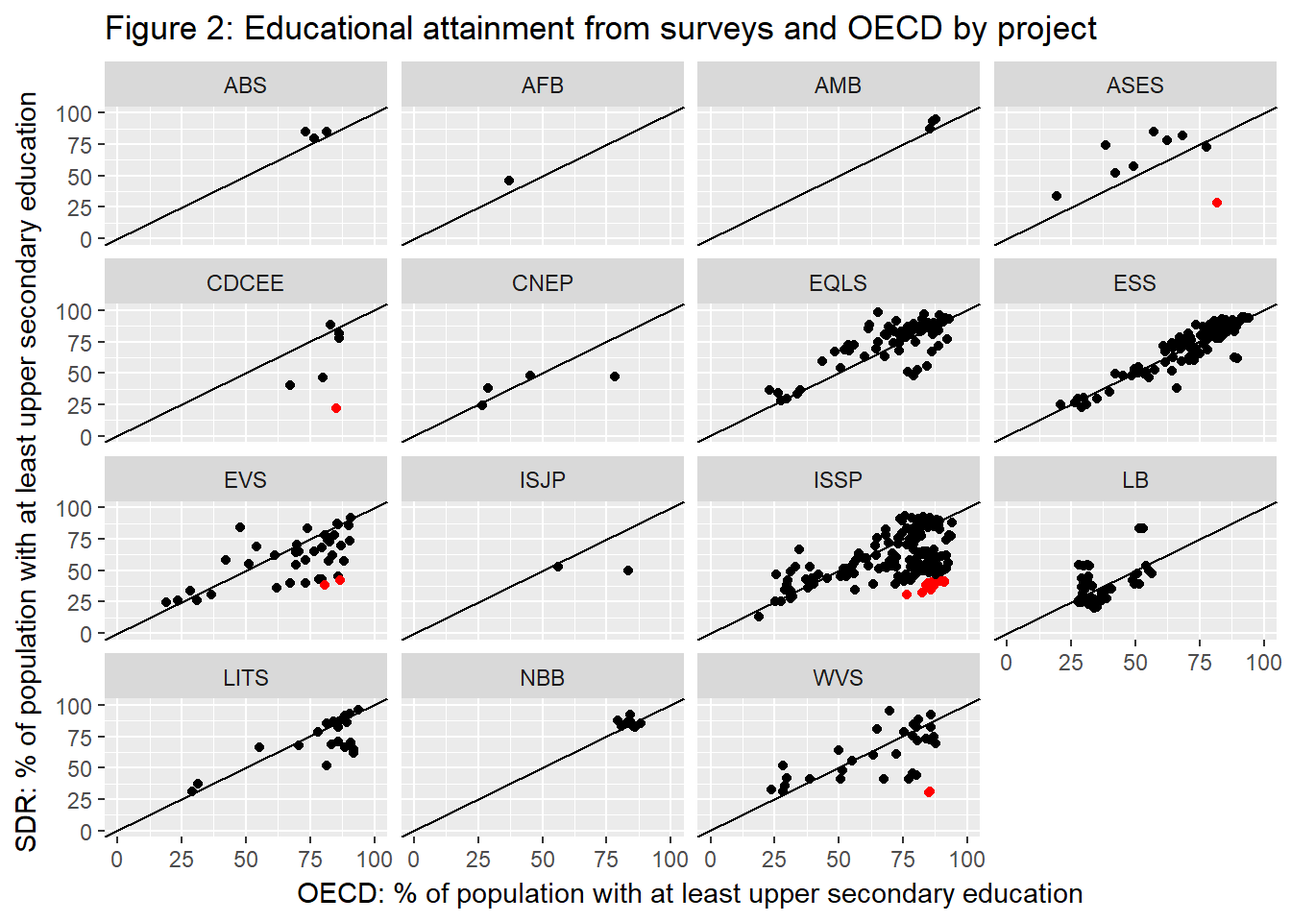
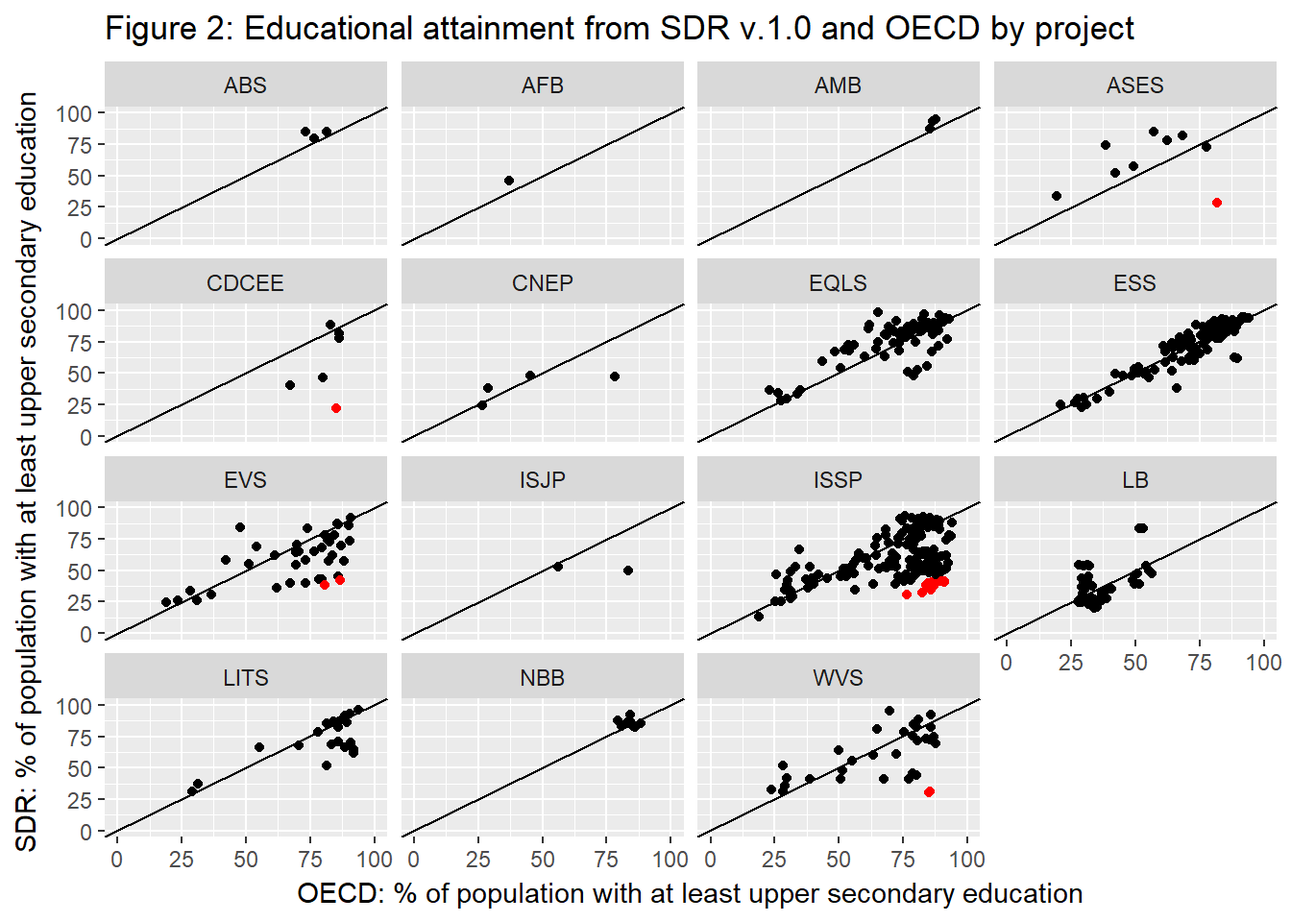
educ sdr oecd 2

Changed region(s): [[0.5, 0.0, 0.875, 0.0625]]

diff --git a/content/post/education-sdr-oecd.html b/content/post/education-sdr-oecd.html
@@ -43,13 +43,13 @@ output:
 <code>60 = bachelor’s or equivalent level</code><br />
 <code>70 = master’s or equivalent level</code><br />
 <code>80 = doctoral or equivalent level</code><br />
-<code>90 = not elsewhere classified</code><br />
-and <code>c_edu_incomplete</code> is a flag indicating whether the given level of education has been completed (<code>c_edu_incomplete == 0</code>) or not (<code>c_edu_incomplete == 1</code>).<br />
-After matching the SDR v.1.0 and OECD datasets (and losing some cases on both sides) I ended up with 542 cases (national samples) from 15 projects: Asian Barometer (ABS), Afrobarometer (AFB), Americas Barometer (AMB), Asia-Europe Survey (ASES), Consolidation and Democracy in Central Eastern Europe (CDCEE), Comparative National Elections Project (CNEP), European Quality of Life Survey (EQLS), European Social Survey (ESS,) European Values Study (EVS), International Social Justice Project (ISJP), International Social Survey Programme (ISSP), Latinobarometro (LB), Life in Transition Survey (LITS), New Baltic Barometer (NBB), and the World Values Survey (WVS), and for 38 countries (that the OECD dataset only has information for a limited number of countries).</p>
+<code>90 = not elsewhere classified</code></p>
+<p>and <code>c_edu_incomplete</code> is a flag indicating whether the given level of education has been completed (<code>c_edu_incomplete == 0</code>) or not (<code>c_edu_incomplete == 1</code>).</p>
+<p>After matching the SDR v.1.0 and OECD datasets (and losing some cases on both sides) I ended up with 542 cases (national samples) from 15 projects: Asian Barometer (ABS), Afrobarometer (AFB), Americas Barometer (AMB), Asia-Europe Survey (ASES), Consolidation and Democracy in Central Eastern Europe (CDCEE), Comparative National Elections Project (CNEP), European Quality of Life Survey (EQLS), European Social Survey (ESS,) European Values Study (EVS), International Social Justice Project (ISJP), International Social Survey Programme (ISSP), Latinobarometro (LB), Life in Transition Survey (LITS), New Baltic Barometer (NBB), and the World Values Survey (WVS), and for 38 countries (that the OECD dataset only has information for a limited number of countries).</p>
 <div id="oecd-data" class="section level4">
 <h4>OECD data</h4>
 <p>Let’s start with the OECD data. The function <code>get_datasets</code> from the <a href="https://github.com/expersso/OECD"><code>oecd</code> package</a> gets the list of available datasets. <code>search_dataset</code> searches for keywords among the available datasets. The Educational attainment and labour-force status database has the code <code>NEAC_SHARE_EA</code>. With this code, the database can be downloaded with the <code>get_dataset</code> function.</p>
-<p><em>Note: The entire database is huge and takes several minutes to download. According to the <code>oecd</code> package <a href="https://github.com/expersso/OECD">instructions</a>, it is possible to specify a filter in <code>get_dataset</code>. This would be great, since I only need a small subset of the data, but unfortunately I haven’t been able to get the filetr to work.</em></p>
+<p><em>Note: The entire database is huge and takes several minutes to download. According to the <code>oecd</code> package <a href="https://github.com/expersso/OECD">instructions</a>, it is possible to specify a filter in <code>get_dataset</code>. This would be great, since I only need a small subset of the data, but unfortunately I haven’t been able to get the filter to work.</em></p>
 <p>After downloading the database I select the subset I’m interested in:<br />
 1. the indicator “Share of population by educational attainment” (<code>NEAC_SHARE_EA</code>),<br />
 2. the education level measured “At least upper secondary education” (<code>L3T8</code>),<br />
@@ -96,8 +96,8 @@ master &lt;- haven::read_dta(tmp)</code></pre>
 <li>calculate weighted proportions of the <code>hs</code> variable by national sample - <code>mean_hs</code>,</li>
 <li>calculate the proportion of missing values in the <code>t_edu</code> variable,</li>
 <li>filter surveys for which <code>mean_hs</code> is available and which cover whole country samples (as opposed to split-country samples, such as West and East Germany or Wallonia and Flanders),</li>
-<li>covert SDR country codes from ISO2 to ISO3,</li>
-<li>merge the SDR data with the OCD data on the country code and year,</li>
+<li>covert SDR country codes from ISO2 to ISO3 (to match with OECD data),</li>
+<li>merge the SDR data with the OECD data on the country code and year,</li>
 <li>Construct a flag for survey proportion less than half of the OECD proportion,</li>
 <li>filter out cases with missing values.</li>
 </ol>
@@ -122,16 +122,16 @@ master &lt;- haven::read_dta(tmp)</code></pre>
 <p>The correlation (Pearson’s <em>r</em>) between the SDR percentage of respondents with at least upper secondary education and the corresponding OECD share is 0.67. The scatter plot in Figure 1 visualizes this association. While most of the samples are relatively close to the 45-degree line (as expected), there is a worrying group of observations with survey proportions substantially lower than the proportions from OECD data. Red points indicate that the survey proportion is less than half of the OECD proportion (the 50 percent threshold is of course arbitrary).</p>
 <pre class="r"><code>ggplot(merge, aes(x=obsValue, y=mean_hs, col = off)) + geom_point(show.legend=F) + 
   scale_color_manual(values=c(&quot;black&quot;, &quot;red&quot;)) +
-  ggtitle(&quot;Figure 1: Educational attainment from SDR and OECD&quot;) + 
+  ggtitle(&quot;Figure 1: Educational attainment from SDR v.1.0 and OECD&quot;) + 
   xlab(&quot;OECD: % of population with at least upper secondary education&quot;) +
   ylab(&quot;SDR: % of population with at least upper secondary education&quot;) +
   xlim(0,100) + ylim(0,100) +
   geom_abline(intercept = 0, slope = 1)</code></pre>
 <p><img src="/post/education-sdr-oecd_files/figure-html/scatter1-1.png" width="672" /></p>
-<p>Figure 2 presents separate plots for each survey project, showing that most of the problematic surveys are in the <a href="http://issp.org">International Social Survey Programme (ISSP)</a>, but also in ASES, CDCEE, EVS, and WVS. The data used in the above graphs can be accessed here: <a href="https://mkolczynska.shinyapps.io/sdr_oecd_education/" class="uri">https://mkolczynska.shinyapps.io/sdr_oecd_education/</a>.</p>
+<p>Figure 2 presents separate plots for each survey project, showing that most of the problematic surveys are in the International Social Survey Programme (ISSP), but also in ASES, CDCEE, EVS, and WVS. This Shiny app enables filtering of the data to be plotted and provides the data: <a href="https://mkolczynska.shinyapps.io/sdr_oecd_education/" class="uri">https://mkolczynska.shinyapps.io/sdr_oecd_education/</a>.</p>
 <pre class="r"><code>ggplot(merge, aes(x=obsValue, y=mean_hs, col = off)) + geom_point(show.legend=F) + 
   scale_color_manual(values=c(&quot;black&quot;, &quot;red&quot;)) +
-  ggtitle(&quot;Figure 2: Educational attainment from surveys and OECD by project&quot;) + 
+  ggtitle(&quot;Figure 2: Educational attainment from SDR v.1.0 and OECD by project&quot;) + 
   xlab(&quot;OECD: % of population with at least upper secondary education&quot;) +
   ylab(&quot;SDR: % of population with at least upper secondary education&quot;) +
   xlim(0,100) + ylim(0,100) +
@@ -141,11 +141,12 @@ master &lt;- haven::read_dta(tmp)</code></pre>
 </div>
 <div id="the-curious-case-of-issp-switzerland" class="section level3">
 <h3>The curious case of ISSP Switzerland</h3>
-<p>ISSP surveys in Switzerland are a particularly interesting case. As shown in the table below, the time series starts with survey proportions of respondents with at least upper secondary education (column “SDR v.1.0 % HS+”) of around 90% in 1996, drops to around 40% in 1998, stays low until 2010, and then increases back to 85% in 2011. Note that only selected waves of ISSP are included in SDR v.1.0. Also note that survey proportions from 2006 and 2007, and from 2008 and 2009 are identical; this is because these two waves were carried out together onn the same sample.</p>
+<p>ISSP surveys in Switzerland are a particularly interesting case. As shown in Table 1 below, the time series starts with survey proportions of respondents with at least upper secondary education (column “SDR % HS+”) of around 90% in 1996, drops to around 40% in 1998, stays low until 2010, and then increases back to 85% in 2011. Note that only selected waves of ISSP are included in SDR v.1.0. Also note that survey proportions from 2006 and 2007, and from 2008 and 2009 are identical; this is because these two waves were carried out together on the same sample.</p>
 <pre class="r"><code>merge %&gt;% filter(t_survey_name == &quot;ISSP&quot; &amp; t_country_l1u == &quot;CH&quot;) %&gt;%
   arrange(t_survey_edition) %&gt;% select(1,2,3,5,10) %&gt;%
   kable(digits = 3, align=c(&quot;c&quot;, &quot;c&quot;, &quot;c&quot;, &quot;c&quot;), 
-        caption = &quot;Educational attainment data from ISSP Switzerland and the OECD&quot;) %&gt;%
+        caption = &quot;Educational attainment data from ISSP Switzerland and the OECD&quot;,
+        col.names = c(&quot;Project&quot;, &quot;Wave&quot;, &quot;Country&quot;, &quot;SDR % HS+&quot;, &quot;OECD % HS+&quot;)) %&gt;%
   kable_styling(full_width = F, position = &quot;left&quot;) %&gt;%
   column_spec(1:5, width = &quot;10em&quot;)</code></pre>
 <table class="table" style="width: auto !important; ">
@@ -155,19 +156,19 @@ master &lt;- haven::read_dta(tmp)</code></pre>
 <thead>
 <tr>
 <th style="text-align:center;">
-t_survey_name
+Project
 </th>
 <th style="text-align:center;">
-t_survey_edition
+Wave
 </th>
 <th style="text-align:center;">
-t_country_l1u
+Country
 </th>
 <th style="text-align:center;">
-mean_hs
+SDR % HS+
 </th>
 <th style="text-align:center;">
-obsValue
+OECD % HS+
 </th>
 </tr>
 </thead>
@@ -327,14 +328,14 @@ CH
 </tr>
 </tbody>
 </table>
-<p>Further investigation required digging into the original data and documentation, which benefitted from the help of Przemek. It turns out that some ISSP waves have two variables capturing respondent’s education level: one is country-specific and the other is recoded to a common scheme across countries by ISSP. For example, in ISSP/2007, the country-specific variable for Switzerland (<code>ch_degr</code>) has 14 categories (including one for missing values). The <code>degree</code> variable is the recoded one and has 7 categories (also including one for missing values). The frequencies in both variables are nice enough to make a relatively safe bet as to how <code>ch_degr</code> was mapped onto <code>degree</code> by the ISSP team. Przemek and I checked the SDR v.1.0 documentation and the code used to harmonize education variables from ISSP. It turns out that the source variable used for harmonization if ISSP/2007/CH was the recoded degree variable. The scheme below shows how the three variables are related.</p>
-<div style="white-space: pre-line;">Figure 3: Mapping scheme of ISSP/2007/Switzerland: <code>degree</code>, <code>ch_degr</code>, <code>t_edu</code>
-<img src="issp-2007-ch-sdr.png" width="700" /></div>
+<p>Further investigation required digging into the original data and documentation, which benefitted from the help of Przemek. It turns out that some ISSP waves have two variables capturing respondent’s education level: one is country-specific and the other is recoded to a common scheme across countries by ISSP. For example, in ISSP/2007, the country-specific variable for Switzerland (<code>ch_degr</code>) has 14 categories (including one for missing values). The <code>degree</code> variable is the recoded one and has 7 categories (also including one for missing values). The frequencies in both variables are nice enough to make a relatively safe bet as to how <code>ch_degr</code> was mapped onto <code>degree</code> by the ISSP team. Przemek and I checked the SDR v.1.0 documentation and the code used to harmonize education variables from ISSP. It turns out that the source variable used for harmonization if ISSP/2007/Switzerland was the recoded <code>degree</code> variable. The scheme in Table 2 shows how the three variables are related.</p>
+<div style="white-space: pre-line;">Table 2: Mapping scheme of ISSP/2007/Switzerland: <code>degree</code>, <code>ch_degr</code>, <code>t_edu</code>
+<img src="issp-2007-ch-sdr.png" width="600" /></div>
 <p>It seems that the problem lies in the recoding from <code>ch_degr</code> to <code>degree</code>, especially in the value labels “Lowest formal qualification”, which suggests primary school completion, as it was coded in SDR. Meanwhile the category “Lowest formal qualification” in <code>degree</code> includes both “Primary school” and “Secondary school” from <code>ch_degr</code>, which would be assigned different ISCED codes. As a consequence of the misclassification of “Lowest formal qualification”, “Above lowest qualification” was understood as levels above primary, i.e., lower secondary, but not necessarily completed upper secondary.<br />
-An alternative (hypothetical) mapping presented below uses the country-specific <code>ch_degr</code> variable as the source and maps it to categories of SDR’s <code>t_edu</code>. In this scenario all the categories highlighted in blue would be assigned target codes corresponding to upper secondary education or more, resulting in the share of respondents with at least upper secondary education of 86%, i.e., matching the OECD value.</p>
-<div style="white-space: pre-line;">Figure 4: Hypothetical mapping scheme of ISSP/2007/Switzerland
-<img src="issp-2007-ch-sdr-hypo.png" width="700" /></div>
-<p>Data dictionaries of the source variables for <code>t_edu</code> (i.e., the non-country-specific education variables) from other ISSP waves (see <a href="#appendix">Appendix</a> show that the “Lowest formal qualification” category is present in all those ISSP waves (2004, 2006, 2007, 2008, 2009, 2010), where ca. 40% of the Swiss sample in SDR has at least upper secondary education. The earliest and latest wave of ISSP (1996, 2011) have different sets of response categories in the recoded education variable, which did not result in such errors when harmonizing them in SDR. The relevant variable in ISSP/1998 does not have the “Lowest formal qualification” or “Above lowest qualification” categories, and yet the share of respondents with at least upper secondary education based on the harmonized <code>t_edu</code> variable in SDR is less than 40. This requires further investigation.</p>
+An alternative (hypothetical) mapping presented In Table 3 uses the country-specific <code>ch_degr</code> variable as the source and maps it to categories of SDR’s <code>t_edu</code>. In this scenario all the categories highlighted in blue would be assigned target codes corresponding to upper secondary education or more, resulting in the share of respondents with at least upper secondary education of 86%, i.e., matching the OECD value.</p>
+<div style="white-space: pre-line;">Table 3: Hypothetical mapping scheme of ISSP/2007/Switzerland
+<img src="issp-2007-ch-sdr-hypo.png" width="600" /></div>
+<p>Data dictionaries of the source variables for <code>t_edu</code> (i.e., the non-country-specific education variables) from other ISSP waves (see <a href="#appendix">Appendix</a>) show that the “Lowest formal qualification” category is present in all those ISSP waves (2004, 2006, 2007, 2008, 2009, 2010), where ca. 40% of the Swiss sample in SDR has at least upper secondary education. The earliest and latest wave of ISSP (1996, 2011) have different sets of response categories in the recoded education variable, which did not result in such errors when harmonizing them in SDR. The relevant variable in ISSP/1998 does not have the “Lowest formal qualification” or “Above lowest qualification” categories, and yet the share of respondents with at least upper secondary education based on the harmonized <code>t_edu</code> variable in SDR is less than 40. This requires further investigation.</p>
 </div>
 <div id="conclusion" class="section level3">
 <h3>Conclusion</h3>

diff --git a/public/post/education-sdr-oecd/index.html b/public/post/education-sdr-oecd/index.html
@@ -292,13 +292,13 @@
 <code>60 = bachelor’s or equivalent level</code><br />
 <code>70 = master’s or equivalent level</code><br />
 <code>80 = doctoral or equivalent level</code><br />
-<code>90 = not elsewhere classified</code><br />
-and <code>c_edu_incomplete</code> is a flag indicating whether the given level of education has been completed (<code>c_edu_incomplete == 0</code>) or not (<code>c_edu_incomplete == 1</code>).<br />
-After matching the SDR v.1.0 and OECD datasets (and losing some cases on both sides) I ended up with 542 cases (national samples) from 15 projects: Asian Barometer (ABS), Afrobarometer (AFB), Americas Barometer (AMB), Asia-Europe Survey (ASES), Consolidation and Democracy in Central Eastern Europe (CDCEE), Comparative National Elections Project (CNEP), European Quality of Life Survey (EQLS), European Social Survey (ESS,) European Values Study (EVS), International Social Justice Project (ISJP), International Social Survey Programme (ISSP), Latinobarometro (LB), Life in Transition Survey (LITS), New Baltic Barometer (NBB), and the World Values Survey (WVS), and for 38 countries (that the OECD dataset only has information for a limited number of countries).</p>
+<code>90 = not elsewhere classified</code></p>
+<p>and <code>c_edu_incomplete</code> is a flag indicating whether the given level of education has been completed (<code>c_edu_incomplete == 0</code>) or not (<code>c_edu_incomplete == 1</code>).</p>
+<p>After matching the SDR v.1.0 and OECD datasets (and losing some cases on both sides) I ended up with 542 cases (national samples) from 15 projects: Asian Barometer (ABS), Afrobarometer (AFB), Americas Barometer (AMB), Asia-Europe Survey (ASES), Consolidation and Democracy in Central Eastern Europe (CDCEE), Comparative National Elections Project (CNEP), European Quality of Life Survey (EQLS), European Social Survey (ESS,) European Values Study (EVS), International Social Justice Project (ISJP), International Social Survey Programme (ISSP), Latinobarometro (LB), Life in Transition Survey (LITS), New Baltic Barometer (NBB), and the World Values Survey (WVS), and for 38 countries (that the OECD dataset only has information for a limited number of countries).</p>
 <div id="oecd-data" class="section level4">
 <h4>OECD data</h4>
 <p>Let’s start with the OECD data. The function <code>get_datasets</code> from the <a href="https://github.com/expersso/OECD"><code>oecd</code> package</a> gets the list of available datasets. <code>search_dataset</code> searches for keywords among the available datasets. The Educational attainment and labour-force status database has the code <code>NEAC_SHARE_EA</code>. With this code, the database can be downloaded with the <code>get_dataset</code> function.</p>
-<p><em>Note: The entire database is huge and takes several minutes to download. According to the <code>oecd</code> package <a href="https://github.com/expersso/OECD">instructions</a>, it is possible to specify a filter in <code>get_dataset</code>. This would be great, since I only need a small subset of the data, but unfortunately I haven’t been able to get the filetr to work.</em></p>
+<p><em>Note: The entire database is huge and takes several minutes to download. According to the <code>oecd</code> package <a href="https://github.com/expersso/OECD">instructions</a>, it is possible to specify a filter in <code>get_dataset</code>. This would be great, since I only need a small subset of the data, but unfortunately I haven’t been able to get the filter to work.</em></p>
 <p>After downloading the database I select the subset I’m interested in:<br />
 1. the indicator “Share of population by educational attainment” (<code>NEAC_SHARE_EA</code>),<br />
 2. the education level measured “At least upper secondary education” (<code>L3T8</code>),<br />
@@ -345,8 +345,8 @@ master &lt;- haven::read_dta(tmp)</code></pre>
 <li>calculate weighted proportions of the <code>hs</code> variable by national sample - <code>mean_hs</code>,</li>
 <li>calculate the proportion of missing values in the <code>t_edu</code> variable,</li>
 <li>filter surveys for which <code>mean_hs</code> is available and which cover whole country samples (as opposed to split-country samples, such as West and East Germany or Wallonia and Flanders),</li>
-<li>covert SDR country codes from ISO2 to ISO3,</li>
-<li>merge the SDR data with the OCD data on the country code and year,</li>
+<li>covert SDR country codes from ISO2 to ISO3 (to match with OECD data),</li>
+<li>merge the SDR data with the OECD data on the country code and year,</li>
 <li>Construct a flag for survey proportion less than half of the OECD proportion,</li>
 <li>filter out cases with missing values.</li>
 </ol>
@@ -371,16 +371,16 @@ master &lt;- haven::read_dta(tmp)</code></pre>
 <p>The correlation (Pearson’s <em>r</em>) between the SDR percentage of respondents with at least upper secondary education and the corresponding OECD share is 0.67. The scatter plot in Figure 1 visualizes this association. While most of the samples are relatively close to the 45-degree line (as expected), there is a worrying group of observations with survey proportions substantially lower than the proportions from OECD data. Red points indicate that the survey proportion is less than half of the OECD proportion (the 50 percent threshold is of course arbitrary).</p>
 <pre class="r"><code>ggplot(merge, aes(x=obsValue, y=mean_hs, col = off)) + geom_point(show.legend=F) + 
   scale_color_manual(values=c(&quot;black&quot;, &quot;red&quot;)) +
-  ggtitle(&quot;Figure 1: Educational attainment from SDR and OECD&quot;) + 
+  ggtitle(&quot;Figure 1: Educational attainment from SDR v.1.0 and OECD&quot;) + 
   xlab(&quot;OECD: % of population with at least upper secondary education&quot;) +
   ylab(&quot;SDR: % of population with at least upper secondary education&quot;) +
   xlim(0,100) + ylim(0,100) +
   geom_abline(intercept = 0, slope = 1)</code></pre>
 <p><img src="/post/education-sdr-oecd_files/figure-html/scatter1-1.png" width="672" /></p>
-<p>Figure 2 presents separate plots for each survey project, showing that most of the problematic surveys are in the <a href="http://issp.org">International Social Survey Programme (ISSP)</a>, but also in ASES, CDCEE, EVS, and WVS. The data used in the above graphs can be accessed here: <a href="https://mkolczynska.shinyapps.io/sdr_oecd_education/" class="uri">https://mkolczynska.shinyapps.io/sdr_oecd_education/</a>.</p>
+<p>Figure 2 presents separate plots for each survey project, showing that most of the problematic surveys are in the International Social Survey Programme (ISSP), but also in ASES, CDCEE, EVS, and WVS. This Shiny app enables filtering of the data to be plotted and provides the data: <a href="https://mkolczynska.shinyapps.io/sdr_oecd_education/" class="uri">https://mkolczynska.shinyapps.io/sdr_oecd_education/</a>.</p>
 <pre class="r"><code>ggplot(merge, aes(x=obsValue, y=mean_hs, col = off)) + geom_point(show.legend=F) + 
   scale_color_manual(values=c(&quot;black&quot;, &quot;red&quot;)) +
-  ggtitle(&quot;Figure 2: Educational attainment from surveys and OECD by project&quot;) + 
+  ggtitle(&quot;Figure 2: Educational attainment from SDR v.1.0 and OECD by project&quot;) + 
   xlab(&quot;OECD: % of population with at least upper secondary education&quot;) +
   ylab(&quot;SDR: % of population with at least upper secondary education&quot;) +
   xlim(0,100) + ylim(0,100) +
@@ -390,11 +390,12 @@ master &lt;- haven::read_dta(tmp)</code></pre>
 </div>
 <div id="the-curious-case-of-issp-switzerland" class="section level3">
 <h3>The curious case of ISSP Switzerland</h3>
-<p>ISSP surveys in Switzerland are a particularly interesting case. As shown in the table below, the time series starts with survey proportions of respondents with at least upper secondary education (column “SDR v.1.0 % HS+”) of around 90% in 1996, drops to around 40% in 1998, stays low until 2010, and then increases back to 85% in 2011. Note that only selected waves of ISSP are included in SDR v.1.0. Also note that survey proportions from 2006 and 2007, and from 2008 and 2009 are identical; this is because these two waves were carried out together onn the same sample.</p>
+<p>ISSP surveys in Switzerland are a particularly interesting case. As shown in Table 1 below, the time series starts with survey proportions of respondents with at least upper secondary education (column “SDR % HS+”) of around 90% in 1996, drops to around 40% in 1998, stays low until 2010, and then increases back to 85% in 2011. Note that only selected waves of ISSP are included in SDR v.1.0. Also note that survey proportions from 2006 and 2007, and from 2008 and 2009 are identical; this is because these two waves were carried out together on the same sample.</p>
 <pre class="r"><code>merge %&gt;% filter(t_survey_name == &quot;ISSP&quot; &amp; t_country_l1u == &quot;CH&quot;) %&gt;%
   arrange(t_survey_edition) %&gt;% select(1,2,3,5,10) %&gt;%
   kable(digits = 3, align=c(&quot;c&quot;, &quot;c&quot;, &quot;c&quot;, &quot;c&quot;), 
-        caption = &quot;Educational attainment data from ISSP Switzerland and the OECD&quot;) %&gt;%
+        caption = &quot;Educational attainment data from ISSP Switzerland and the OECD&quot;,
+        col.names = c(&quot;Project&quot;, &quot;Wave&quot;, &quot;Country&quot;, &quot;SDR % HS+&quot;, &quot;OECD % HS+&quot;)) %&gt;%
   kable_styling(full_width = F, position = &quot;left&quot;) %&gt;%
   column_spec(1:5, width = &quot;10em&quot;)</code></pre>
 <table class="table" style="width: auto !important; ">
@@ -404,19 +405,19 @@ master &lt;- haven::read_dta(tmp)</code></pre>
 <thead>
 <tr>
 <th style="text-align:center;">
-t_survey_name
+Project
 </th>
 <th style="text-align:center;">
-t_survey_edition
+Wave
 </th>
 <th style="text-align:center;">
-t_country_l1u
+Country
 </th>
 <th style="text-align:center;">
-mean_hs
+SDR % HS+
 </th>
 <th style="text-align:center;">
-obsValue
+OECD % HS+
 </th>
 </tr>
 </thead>
@@ -576,14 +577,14 @@ CH
 </tr>
 </tbody>
 </table>
-<p>Further investigation required digging into the original data and documentation, which benefitted from the help of Przemek. It turns out that some ISSP waves have two variables capturing respondent’s education level: one is country-specific and the other is recoded to a common scheme across countries by ISSP. For example, in ISSP/2007, the country-specific variable for Switzerland (<code>ch_degr</code>) has 14 categories (including one for missing values). The <code>degree</code> variable is the recoded one and has 7 categories (also including one for missing values). The frequencies in both variables are nice enough to make a relatively safe bet as to how <code>ch_degr</code> was mapped onto <code>degree</code> by the ISSP team. Przemek and I checked the SDR v.1.0 documentation and the code used to harmonize education variables from ISSP. It turns out that the source variable used for harmonization if ISSP/2007/CH was the recoded degree variable. The scheme below shows how the three variables are related.</p>
-<div style="white-space: pre-line;">Figure 3: Mapping scheme of ISSP/2007/Switzerland: <code>degree</code>, <code>ch_degr</code>, <code>t_edu</code>
-<img src="issp-2007-ch-sdr.png" width="700" /></div>
+<p>Further investigation required digging into the original data and documentation, which benefitted from the help of Przemek. It turns out that some ISSP waves have two variables capturing respondent’s education level: one is country-specific and the other is recoded to a common scheme across countries by ISSP. For example, in ISSP/2007, the country-specific variable for Switzerland (<code>ch_degr</code>) has 14 categories (including one for missing values). The <code>degree</code> variable is the recoded one and has 7 categories (also including one for missing values). The frequencies in both variables are nice enough to make a relatively safe bet as to how <code>ch_degr</code> was mapped onto <code>degree</code> by the ISSP team. Przemek and I checked the SDR v.1.0 documentation and the code used to harmonize education variables from ISSP. It turns out that the source variable used for harmonization if ISSP/2007/Switzerland was the recoded <code>degree</code> variable. The scheme in Table 2 shows how the three variables are related.</p>
+<div style="white-space: pre-line;">Table 2: Mapping scheme of ISSP/2007/Switzerland: <code>degree</code>, <code>ch_degr</code>, <code>t_edu</code>
+<img src="issp-2007-ch-sdr.png" width="600" /></div>
 <p>It seems that the problem lies in the recoding from <code>ch_degr</code> to <code>degree</code>, especially in the value labels “Lowest formal qualification”, which suggests primary school completion, as it was coded in SDR. Meanwhile the category “Lowest formal qualification” in <code>degree</code> includes both “Primary school” and “Secondary school” from <code>ch_degr</code>, which would be assigned different ISCED codes. As a consequence of the misclassification of “Lowest formal qualification”, “Above lowest qualification” was understood as levels above primary, i.e., lower secondary, but not necessarily completed upper secondary.<br />
-An alternative (hypothetical) mapping presented below uses the country-specific <code>ch_degr</code> variable as the source and maps it to categories of SDR’s <code>t_edu</code>. In this scenario all the categories highlighted in blue would be assigned target codes corresponding to upper secondary education or more, resulting in the share of respondents with at least upper secondary education of 86%, i.e., matching the OECD value.</p>
-<div style="white-space: pre-line;">Figure 4: Hypothetical mapping scheme of ISSP/2007/Switzerland
-<img src="issp-2007-ch-sdr-hypo.png" width="700" /></div>
-<p>Data dictionaries of the source variables for <code>t_edu</code> (i.e., the non-country-specific education variables) from other ISSP waves (see <a href="#appendix">Appendix</a> show that the “Lowest formal qualification” category is present in all those ISSP waves (2004, 2006, 2007, 2008, 2009, 2010), where ca. 40% of the Swiss sample in SDR has at least upper secondary education. The earliest and latest wave of ISSP (1996, 2011) have different sets of response categories in the recoded education variable, which did not result in such errors when harmonizing them in SDR. The relevant variable in ISSP/1998 does not have the “Lowest formal qualification” or “Above lowest qualification” categories, and yet the share of respondents with at least upper secondary education based on the harmonized <code>t_edu</code> variable in SDR is less than 40. This requires further investigation.</p>
+An alternative (hypothetical) mapping presented In Table 3 uses the country-specific <code>ch_degr</code> variable as the source and maps it to categories of SDR’s <code>t_edu</code>. In this scenario all the categories highlighted in blue would be assigned target codes corresponding to upper secondary education or more, resulting in the share of respondents with at least upper secondary education of 86%, i.e., matching the OECD value.</p>
+<div style="white-space: pre-line;">Table 3: Hypothetical mapping scheme of ISSP/2007/Switzerland
+<img src="issp-2007-ch-sdr-hypo.png" width="600" /></div>
+<p>Data dictionaries of the source variables for <code>t_edu</code> (i.e., the non-country-specific education variables) from other ISSP waves (see <a href="#appendix">Appendix</a>) show that the “Lowest formal qualification” category is present in all those ISSP waves (2004, 2006, 2007, 2008, 2009, 2010), where ca. 40% of the Swiss sample in SDR has at least upper secondary education. The earliest and latest wave of ISSP (1996, 2011) have different sets of response categories in the recoded education variable, which did not result in such errors when harmonizing them in SDR. The relevant variable in ISSP/1998 does not have the “Lowest formal qualification” or “Above lowest qualification” categories, and yet the share of respondents with at least upper secondary education based on the harmonized <code>t_edu</code> variable in SDR is less than 40. This requires further investigation.</p>
 </div>
 <div id="conclusion" class="section level3">
 <h3>Conclusion</h3>
